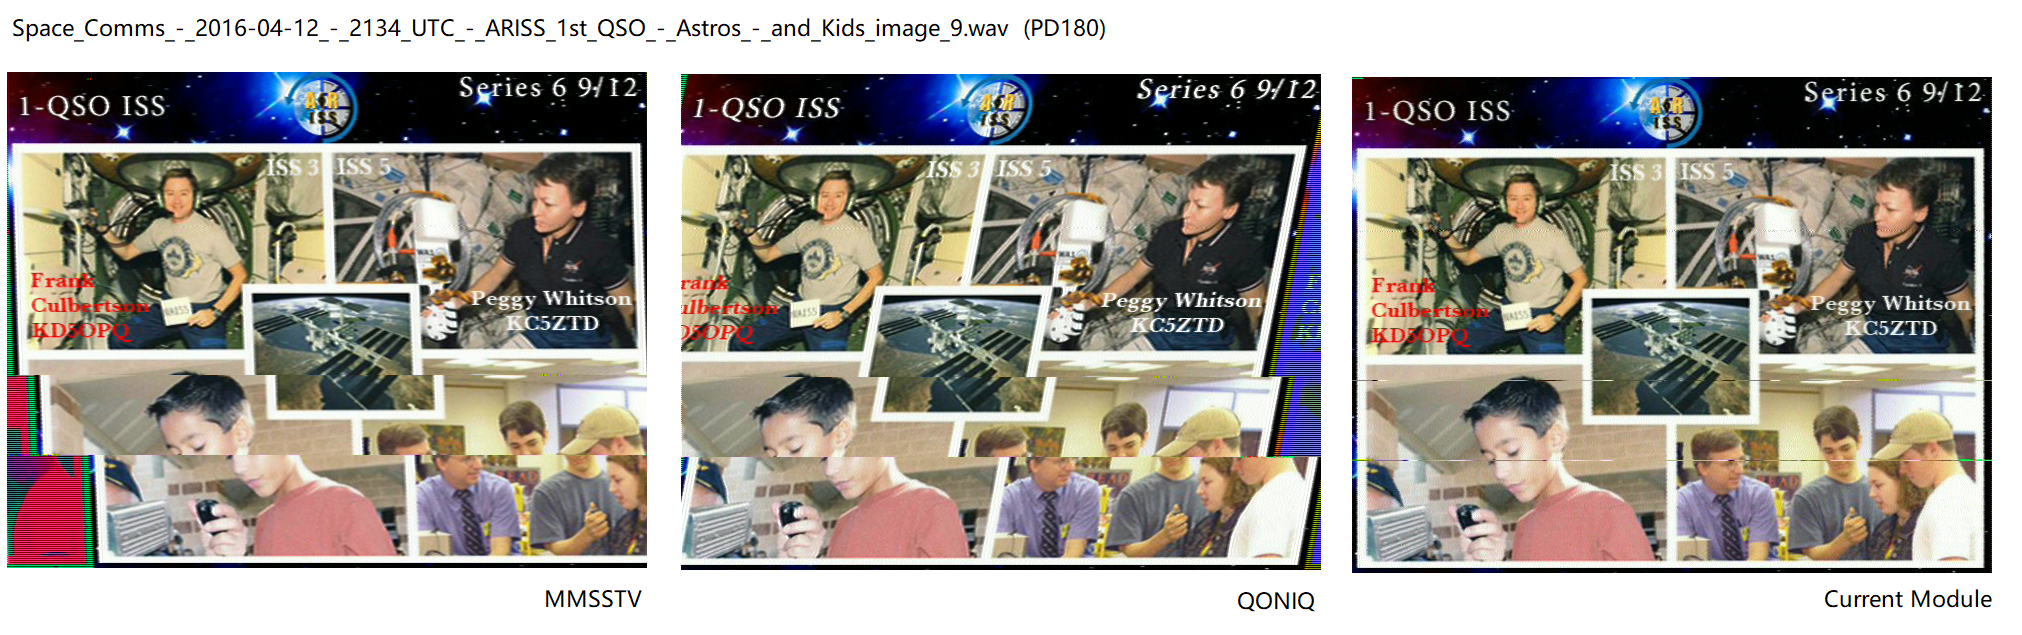
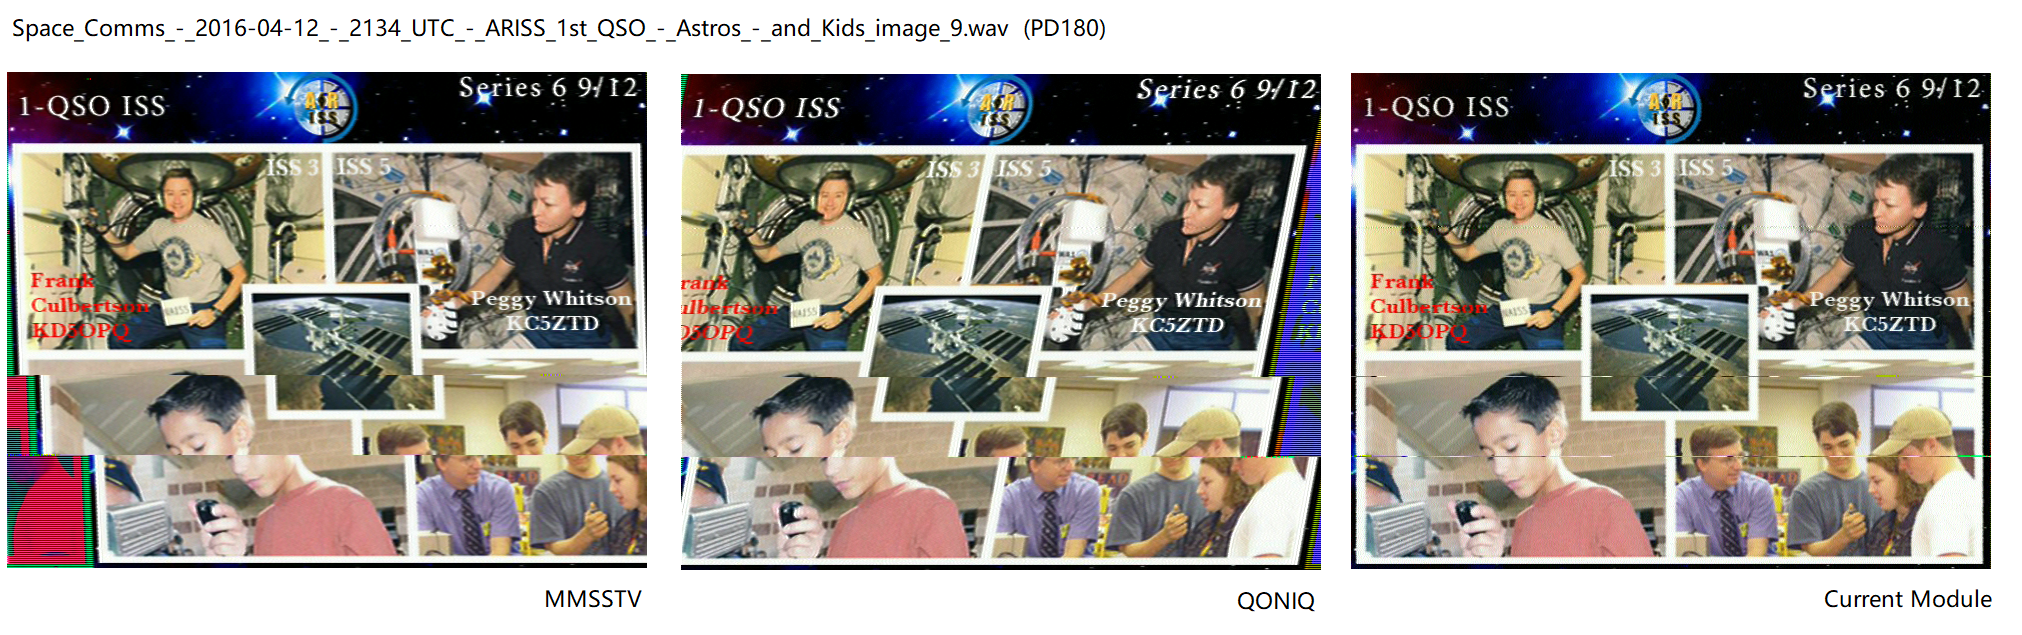
Update example images and test script.

Changed region(s): [[0.6543, 0.0898, 0.997, 0.9276]]

diff --git a/docs/pd120_comprehensive_test.py b/docs/pd120_comprehensive_test.py
@@ -313,6 +313,7 @@ class ComprehensiveTester:
     def __init__(self, input_image: str):
         self.input_image = input_image
         self.original_img = None
+        self.base_signal = None
         self.runner = SSTVTestRunner(SAMPLE_RATE)
         self.results = []
 
@@ -330,9 +331,11 @@ class ComprehensiveTester:
 
     def generate_base_signal(self) -> np.ndarray:
         """生成基础 PD120 信号"""
-        Y, Cr, Cb = rgb_to_ycrcb(self.input_image)
-        spec = generate_tone_sequence(Y, Cr, Cb)
-        return synthesize_waveform(spec)
+        if self.base_signal is None:
+            Y, Cr, Cb = rgb_to_ycrcb(self.input_image)
+            spec = generate_tone_sequence(Y, Cr, Cb)
+            self.base_signal = synthesize_waveform(spec)
+        return self.base_signal
 
     def run_single_test(self, test_name: str, challenges: Dict) -> Dict:
         """运行单个测试"""
@@ -367,13 +370,13 @@ class ComprehensiveTester:
 
         # 限幅
         waveform = np.clip(waveform, -1.0, 1.0)
-        
+
         # 保存 RAW 文件
         raw_path = os.path.join(OUTPUT_DIR, "raw_files", f"{test_name}.raw")
-        waveform_padded = np.pad(waveform, (0, 2048), mode='constant')
+        waveform_padded = np.pad(waveform, (2048, 2048), mode='constant')
         with open(raw_path, 'wb') as f:
             f.write(waveform_padded.astype(np.float32).tobytes())
-            
+
         # 保存 WAV
         wav_path = os.path.join(OUTPUT_DIR, "wav_files", f"{test_name}.wav")
         wav_data = (waveform_padded * 32767).astype(np.int16)

diff --git a/src/sstv_pd_demodulator.cpp b/src/sstv_pd_demodulator.cpp
@@ -136,7 +136,7 @@ bool PDDemodulator::process(float sample, double freq) {
                     // std::cout << "Sync duration sample num: " << sync_duration_samples <<
                     //     " Porch duration sample num: " << porch_duration_samples << std::endl;
                     m_current_segment = SegmentType::PORCH;
-                    m_segment_timer = static_cast<double>(MEDIAN_WINDOW) / 2;
+                    m_segment_timer = static_cast<double>(MEDIAN_WINDOW + 1) / 2;
                     break;
                 }
             }
